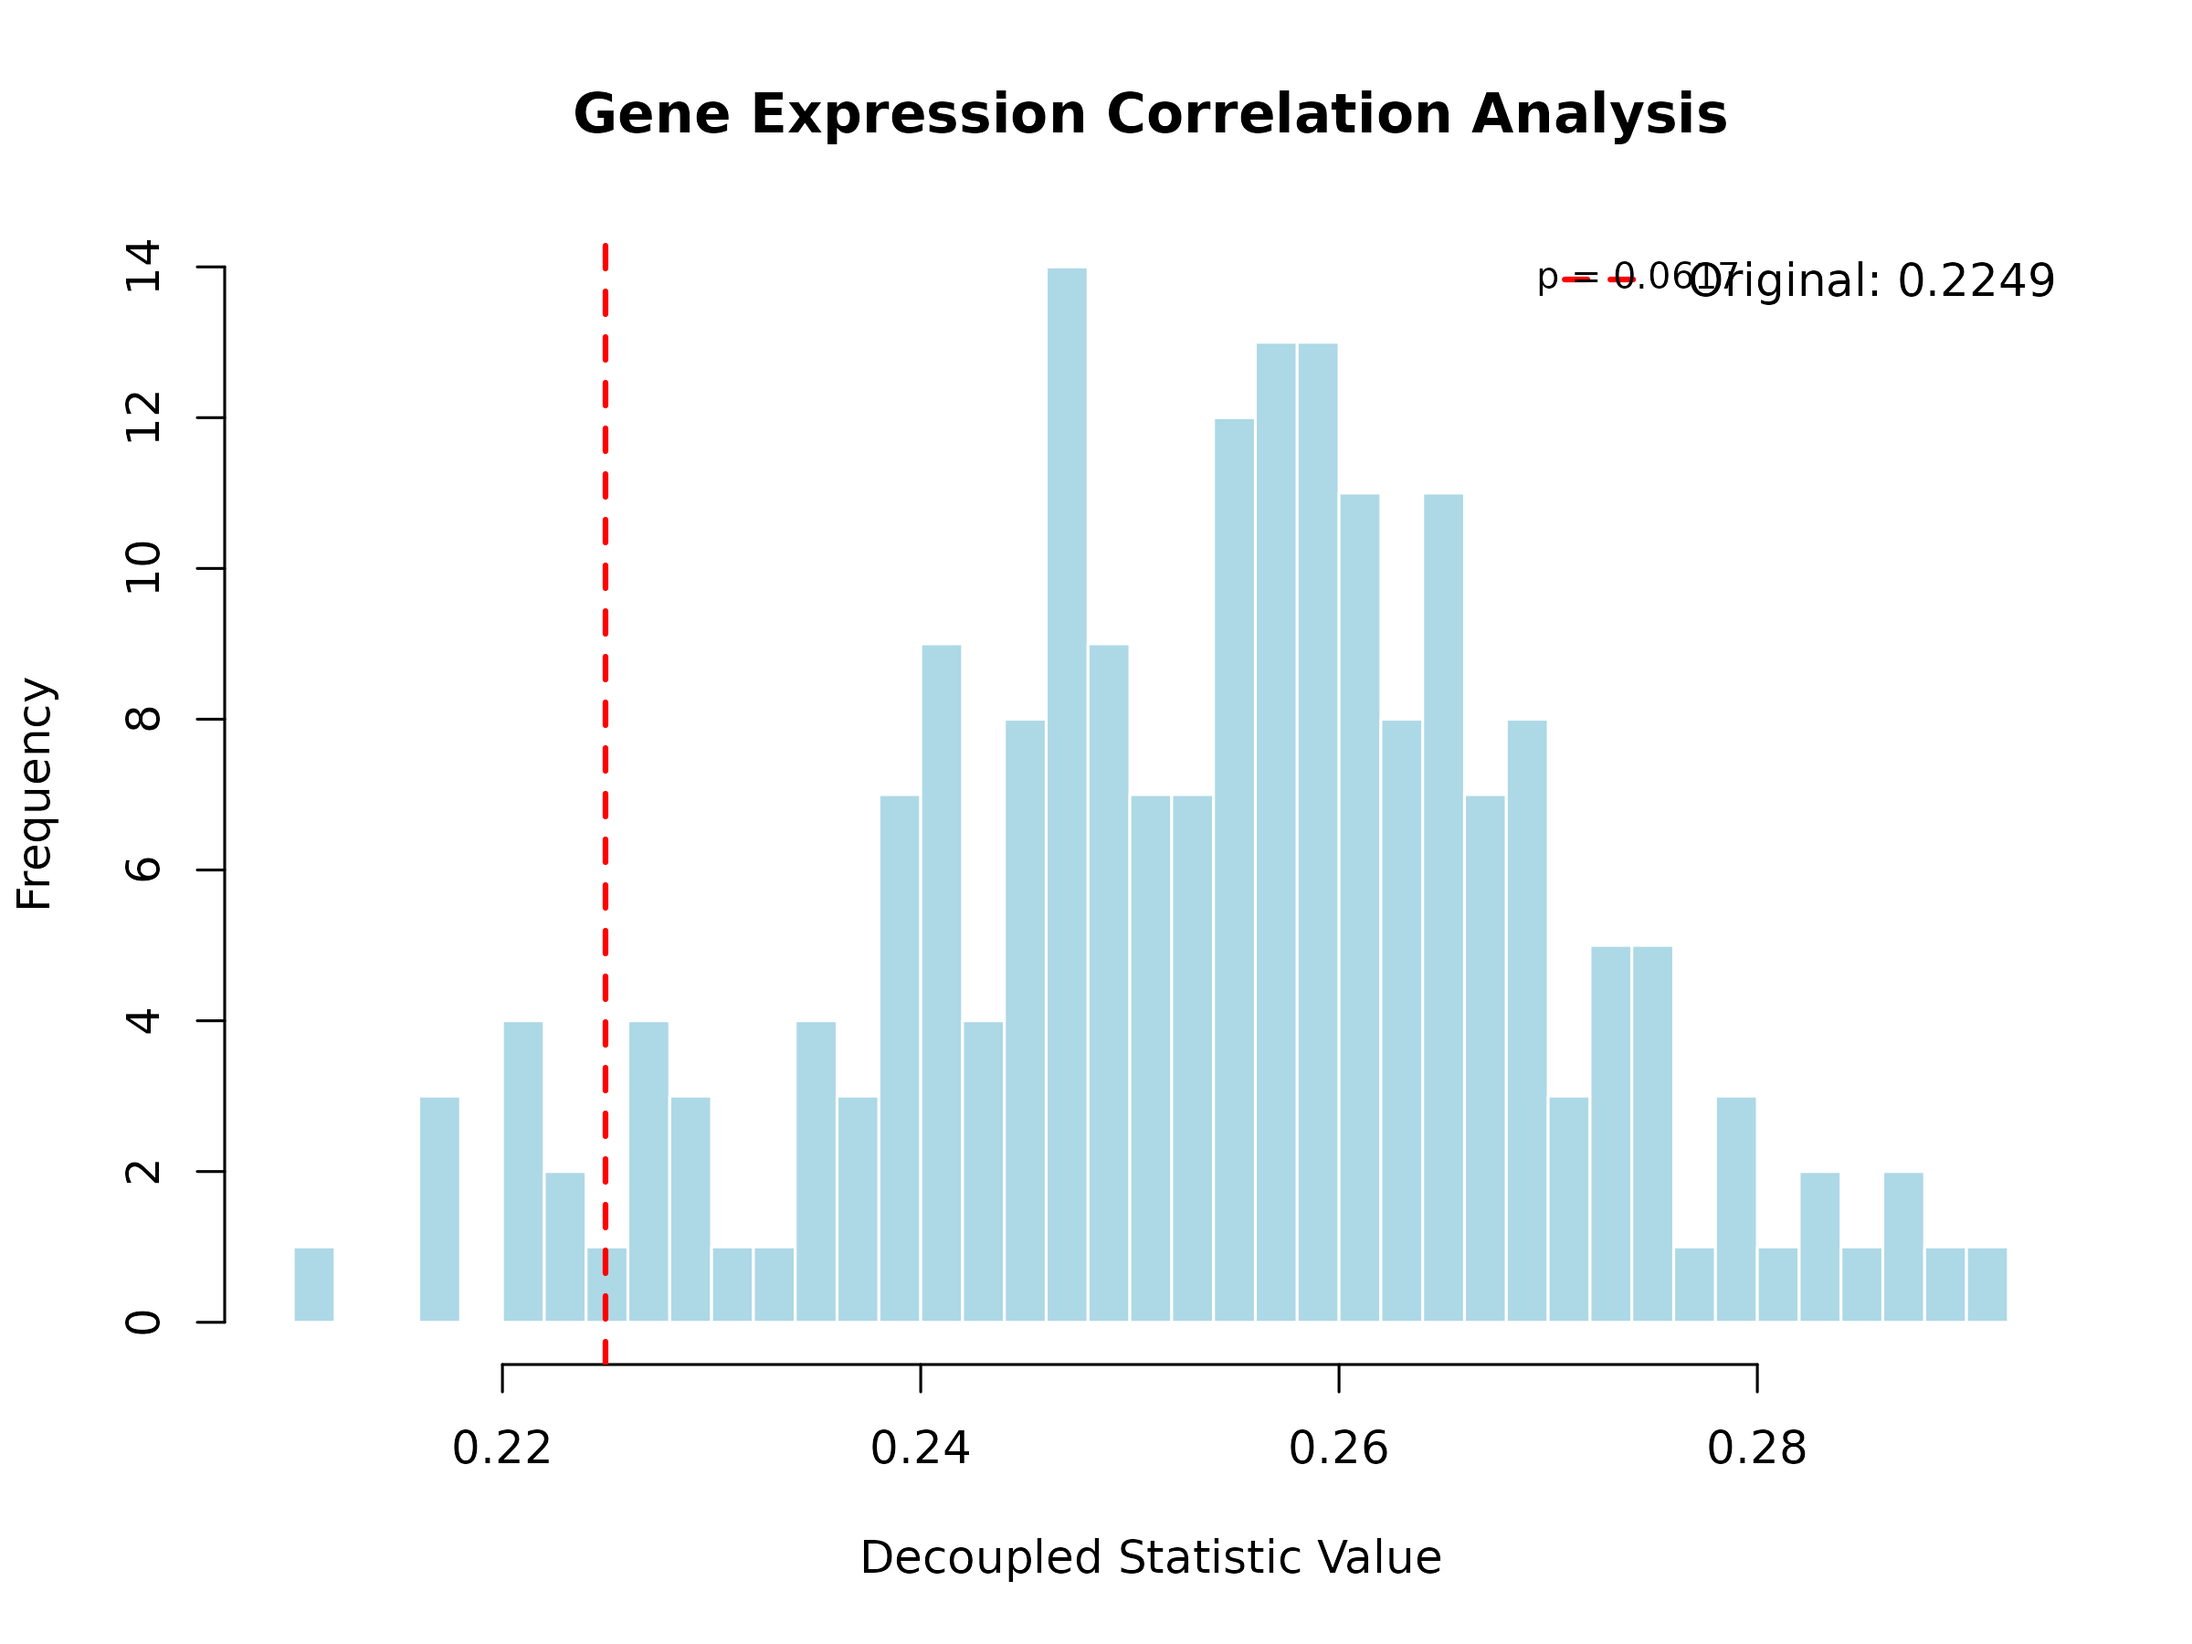
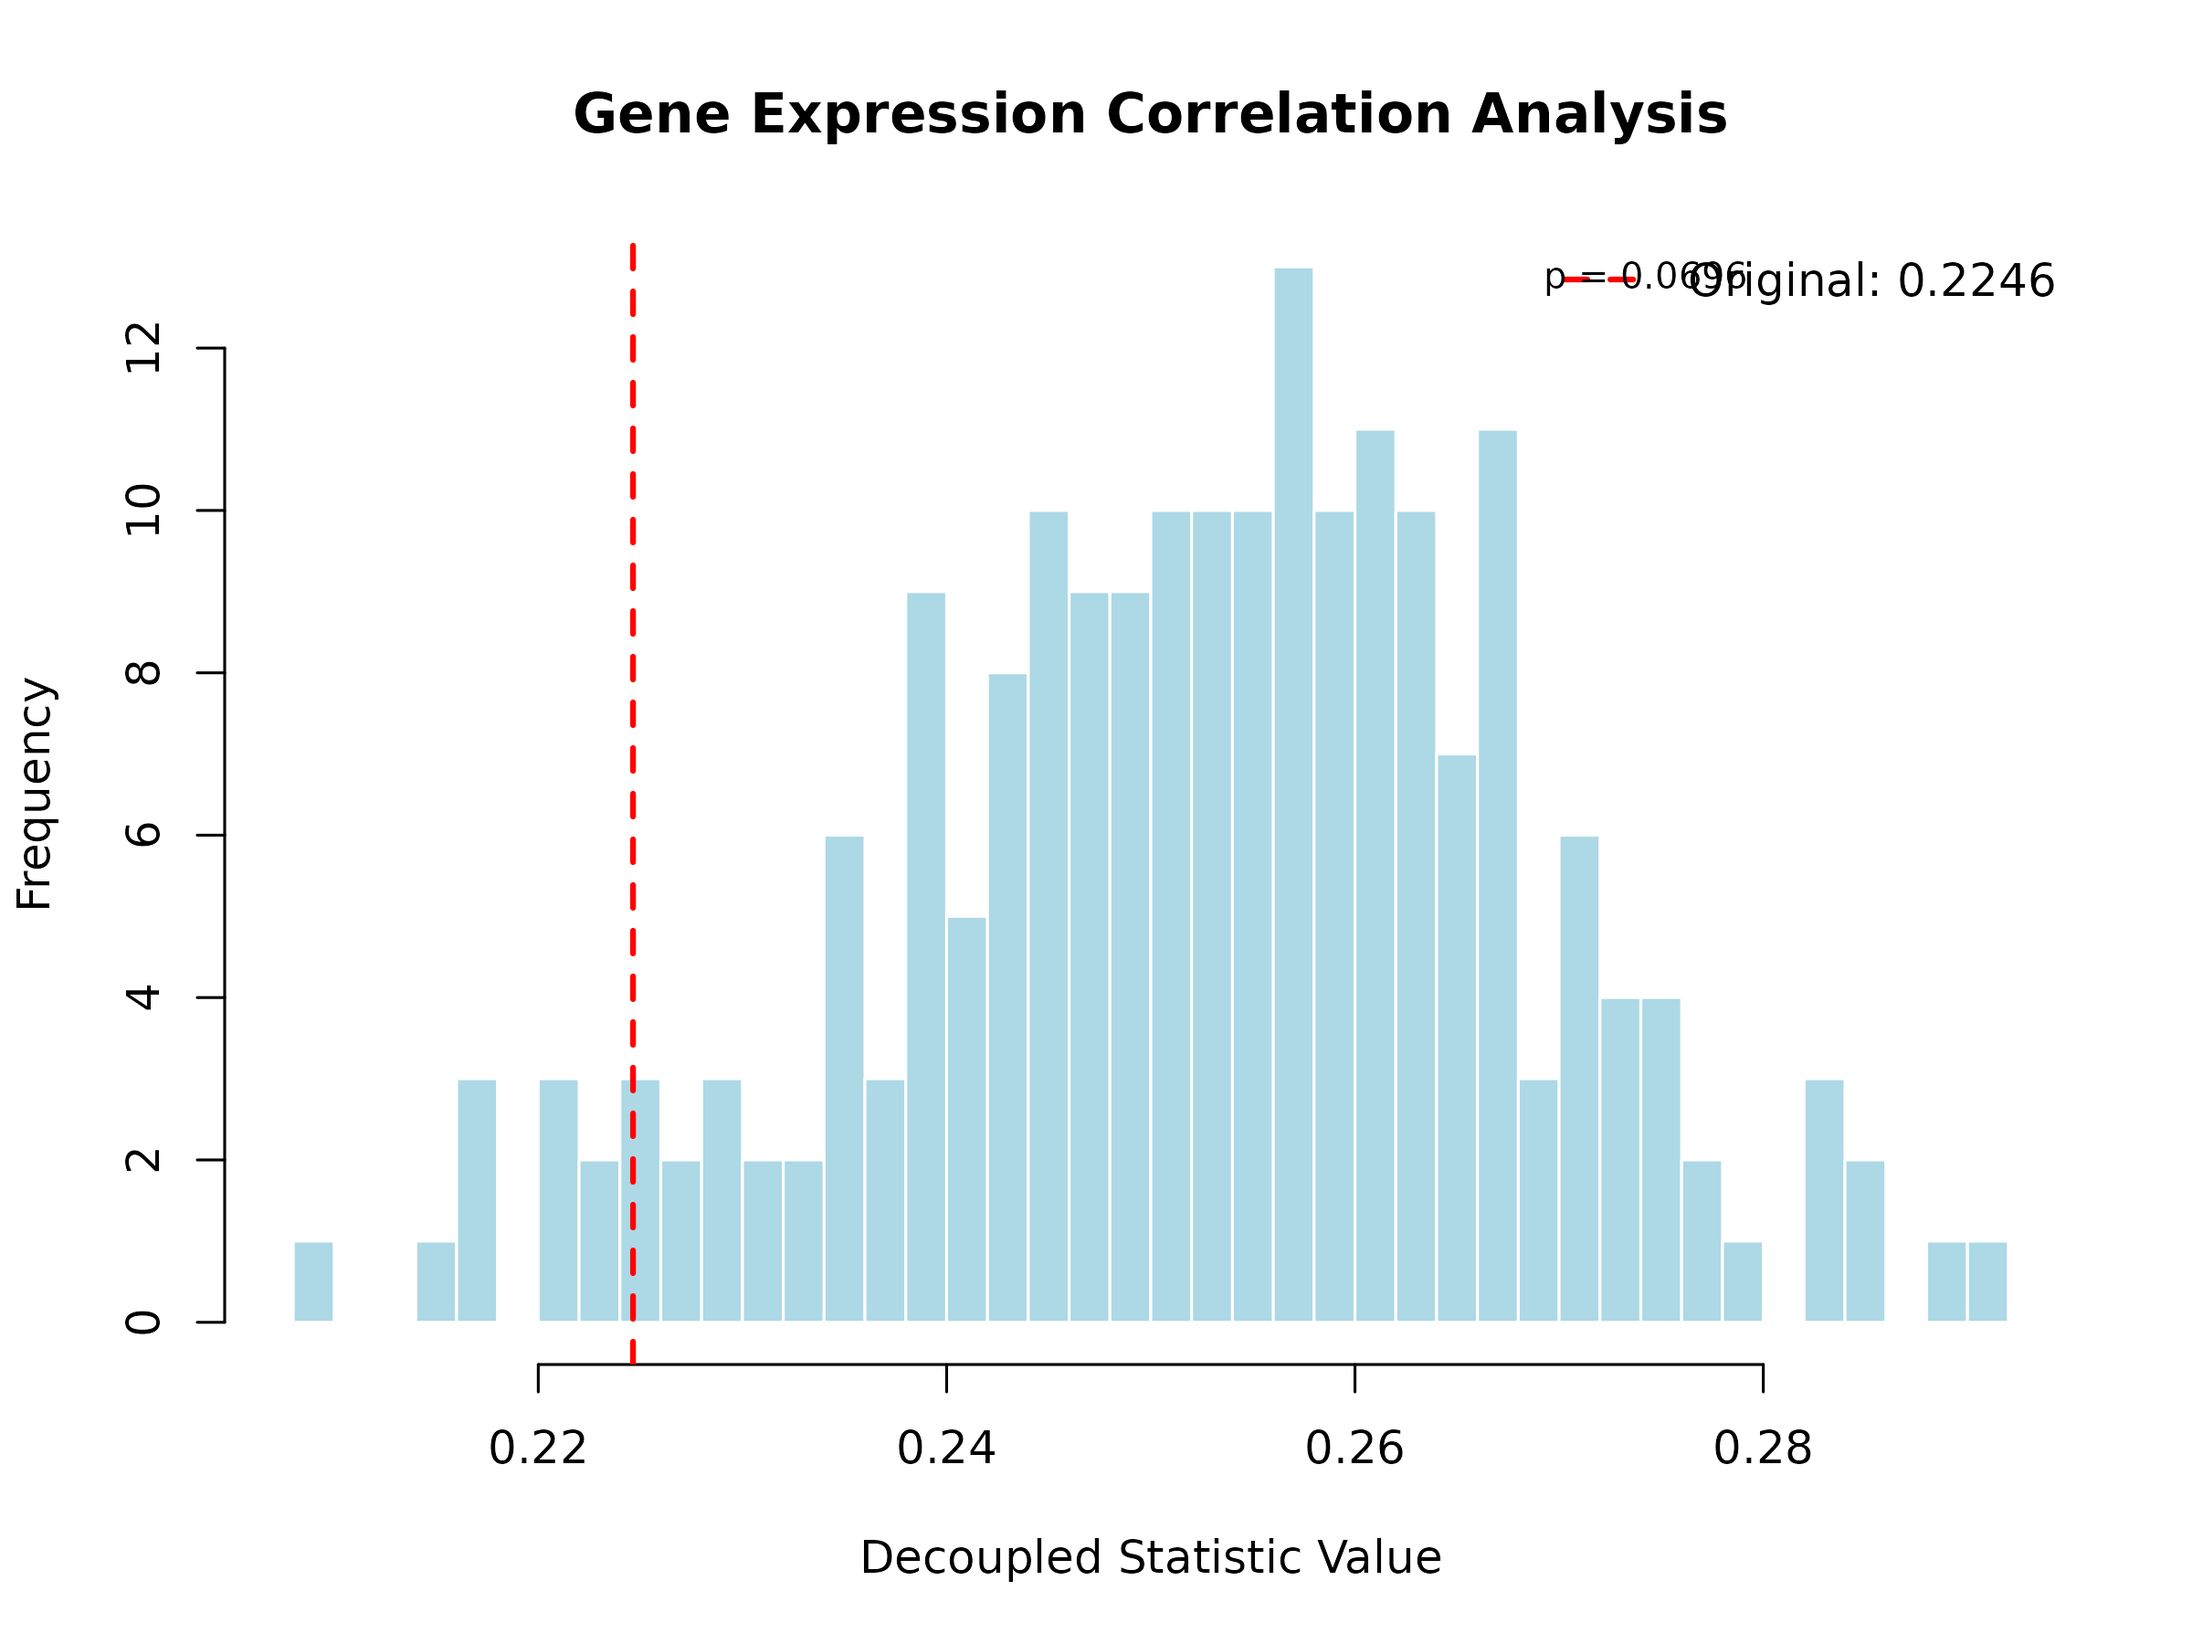
Deploying to gh-pages from @ danymukesha/UStatDecouple@d2e910d9d09bf7344d41aaf295bed88c8af051b8 🚀

diff --git a/reference/UStatDecouple-package.html b/reference/UStatDecouple-package.html
@@ -57,11 +57,18 @@ hypothesis testing, and confidence interval construction for complex genomic met
 
 
     <div class="section level2">
+    <h2 id="see-also">See also<a class="anchor" aria-label="anchor" href="#see-also"></a></h2>
+    <div class="dont-index"><p>Useful links:</p><ul><li><p><a href="https://danymukesha.github.io/UStatDecouple/">https://danymukesha.github.io/UStatDecouple/</a></p></li>
+<li><p>Report bugs at <a href="https://github.com/danymukesha/UStatDecouple/issues" class="external-link">https://github.com/danymukesha/UStatDecouple/issues</a></p></li>
+</ul></div>
+    </div>
+    <div class="section level2">
     <h2 id="author">Author<a class="anchor" aria-label="anchor" href="#author"></a></h2>
     <p><strong>Maintainer</strong>: Dany Mukesha <a href="mailto:danymukesha@gmail.com">danymukesha@gmail.com</a> (<a href="https://orcid.org/0009-0001-9514-751X" class="external-link">ORCID</a>)</p>
     </div>
 
-  </main></div>
+  </main><aside class="col-md-3"><nav id="toc" aria-label="Table of contents"><h2>On this page</h2>
+    </nav></aside></div>
 
 
     <footer><div class="pkgdown-footer-left">

diff --git a/index.html b/index.html
@@ -76,7 +76,7 @@
 <div class="section level2">
 <h2 id="quick-start">Quick Start<a class="anchor" aria-label="anchor" href="#quick-start"></a>
 </h2>
-<p>Rerforming decoupled U-statistic analysis on DNA sequence data. It allows to compute kernel-based distances, estimate distributions, and visualize results efficiently.</p>
+<p>Performing decoupled U-statistic analysis on DNA sequence data. It allows to compute kernel-based distances, estimate distributions, and visualize results efficiently.</p>
 <div class="sourceCode" id="cb2"><pre class="downlit sourceCode r">
 <code class="sourceCode R"><span><span class="kw"><a href="https://rdrr.io/r/base/library.html" class="external-link">library</a></span><span class="op">(</span><span class="va"><a href="https://danymukesha.github.io/UStatDecouple/">UStatDecouple</a></span><span class="op">)</span></span>
 <span></span>

diff --git a/articles/UStatDecouple.html b/articles/UStatDecouple.html
@@ -230,8 +230,8 @@ be expected by chance alone.</p>
 <span><span class="op">)</span></span>
 <span><span class="co">#&gt; </span></span>
 <span><span class="co">#&gt; === Gene Expression Analysis ===</span></span>
-<span><span class="co">#&gt; Original mean absolute correlation: 0.2249</span></span>
-<span><span class="co">#&gt; Expected correlation under independence: 0.2538</span></span>
+<span><span class="co">#&gt; Original mean absolute correlation: 0.2246</span></span>
+<span><span class="co">#&gt; Expected correlation under independence: 0.2527</span></span>
 <span><span class="co">#&gt; Variance inflation factor: Inf</span></span>
 <span><span class="co">#&gt; No significant evidence of co-expression structure (p &gt;= 0.05)</span></span>
 <span><span class="co">#&gt; Genes appear to be expressed independently</span></span>

diff --git a/articles/UStatDecouple.md b/articles/UStatDecouple.md
@@ -127,8 +127,8 @@ expr_result <- analyze_gene_expression_correlations(
 )
 #> 
 #> === Gene Expression Analysis ===
-#> Original mean absolute correlation: 0.2249
-#> Expected correlation under independence: 0.2538
+#> Original mean absolute correlation: 0.2246
+#> Expected correlation under independence: 0.2527
 #> Variance inflation factor: Inf
 #> No significant evidence of co-expression structure (p >= 0.05)
 #> Genes appear to be expressed independently

diff --git a/reference/UStatDecouple-package.md b/reference/UStatDecouple-package.md
@@ -12,6 +12,14 @@ independent sequences. It provides tools for genomic data analysis
 including variance estimation, hypothesis testing, and confidence
 interval construction for complex genomic metrics.
 
+## See also
+
+Useful links:
+
+- <https://danymukesha.github.io/UStatDecouple/>
+
+- Report bugs at <https://github.com/danymukesha/UStatDecouple/issues>
+
 ## Author
 
 **Maintainer**: Dany Mukesha <danymukesha@gmail.com>

diff --git a/index.md b/index.md
@@ -33,7 +33,7 @@ devtools::install_github("danymukesha/UStatDecouple")
 
 ## Quick Start
 
-Rerforming decoupled U-statistic analysis on DNA sequence data. It
+Performing decoupled U-statistic analysis on DNA sequence data. It
 allows to compute kernel-based distances, estimate distributions, and
 visualize results efficiently.
 
